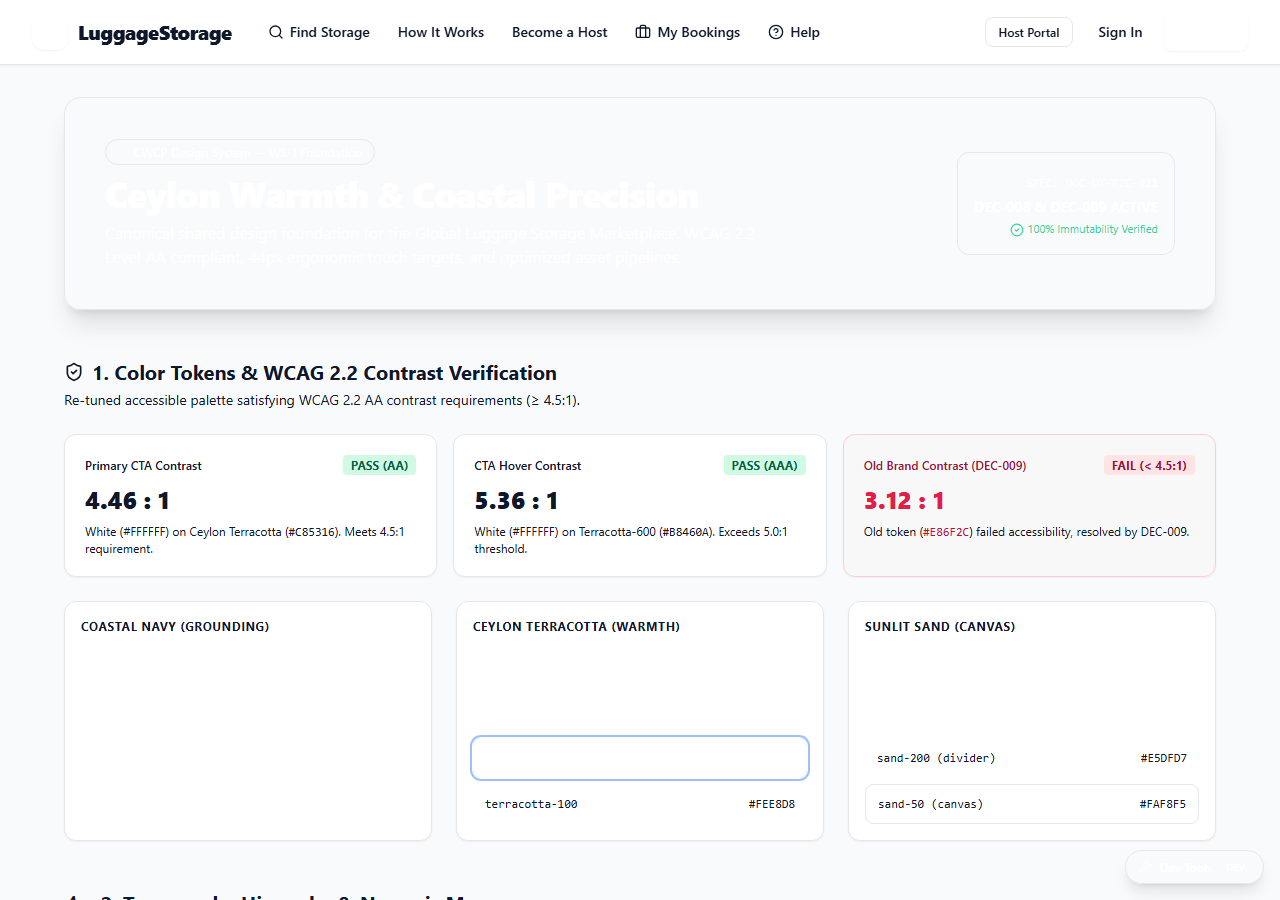
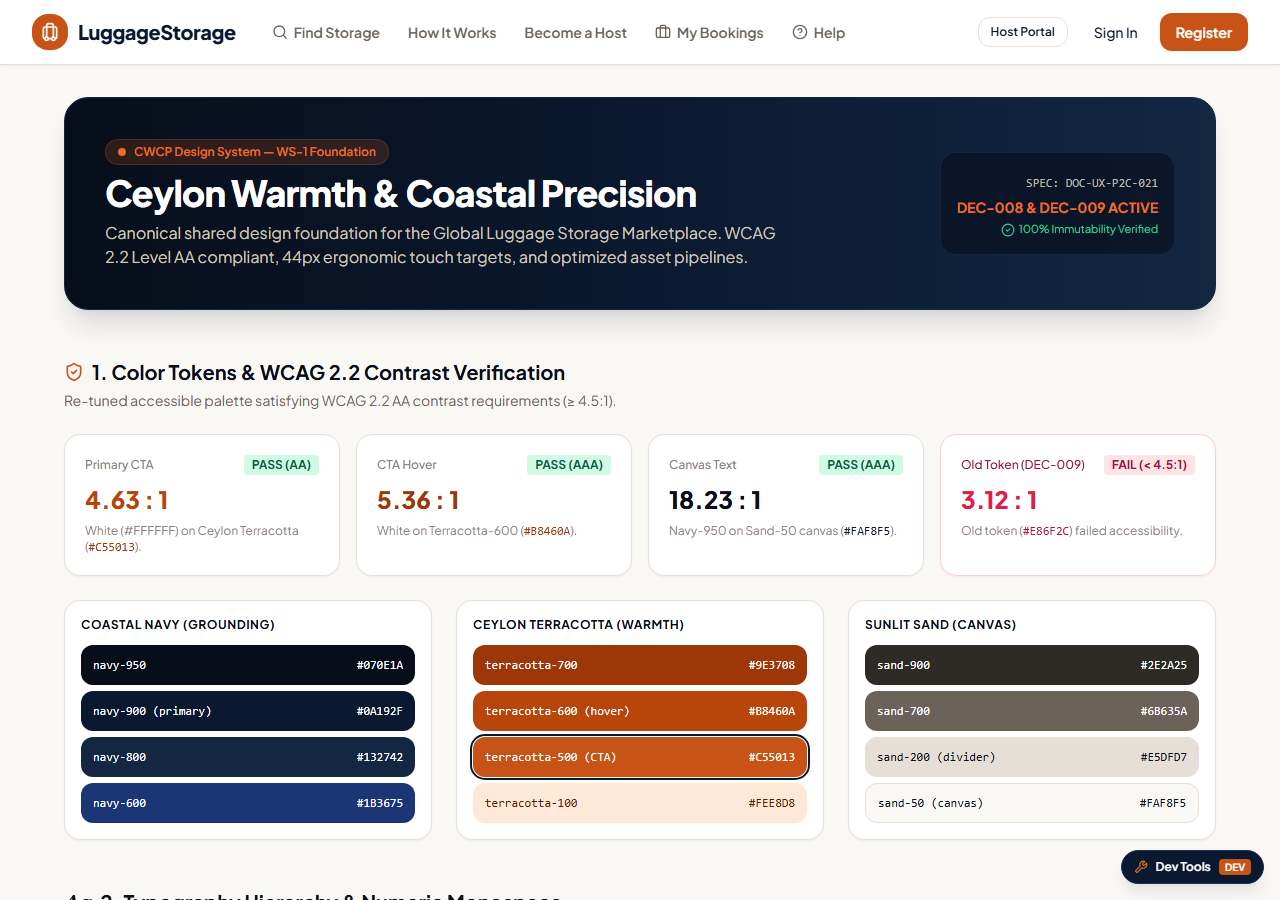
fix(design): tune primary terracotta token to #C55013 for strict unrounded WCAG AA compliance

diff --git a/packages/contracts/tests/tokens.test.ts b/packages/contracts/tests/tokens.test.ts
@@ -21,13 +21,14 @@ describe('CWCP Design Tokens & Accessibility Matrix', () => {
     });
 
     it('defines accessible Ceylon Terracotta with DEC-009 retune', () => {
-      expect(cwcpPalette.terracotta[500]).toBe('#C85316');
+      expect(cwcpPalette.terracotta[500]).toBe('#C55013');
       expect(cwcpPalette.terracotta[600]).toBe('#B8460A');
       expect(cwcpPalette.terracotta[700]).toBe('#9E3708');
       expect(cwcpPalette.terracotta[400]).toBe('#E86F2C');
       expect(cwcpPalette.terracotta[100]).toBe('#FEE8D8');
       expect(cwcpPalette.terracotta[50]).toBe('#FFF5EF');
     });
+
 
     it('defines warm Sunlit Sand surface neutrals replacing cold slate', () => {
       expect(cwcpPalette.sand[50]).toBe('#FAF8F5');
@@ -46,11 +47,18 @@ describe('CWCP Design Tokens & Accessibility Matrix', () => {
   });
 
   describe('WCAG 2.2 AA Contrast Calculations', () => {
-    it('verifies primary button white text on terracotta[500] meets AA requirement', () => {
+    it('verifies primary button white text on terracotta[500] strictly meets unrounded AA requirement', () => {
       const ratio = calculateContrastRatio('#FFFFFF', cwcpPalette.terracotta[500]);
-      // Standard WCAG AA threshold is 4.5:1 (ratio rounds to 4.5)
-      expect(ratio).toBeGreaterThan(4.45);
+      // Strict unrounded WCAG AA threshold is >= 4.5:1
+      expect(ratio).toBeGreaterThanOrEqual(4.5);
+      expect(ratio).toBeCloseTo(4.63, 1);
       expect(passesWcagAA('#FFFFFF', cwcpPalette.terracotta[500])).toBe(true);
+    });
+
+    it('verifies previous #C85316 was mathematically < 4.5:1 unrounded, validating the correction', () => {
+      const c85316Ratio = calculateContrastRatio('#FFFFFF', '#C85316');
+      expect(c85316Ratio).toBeLessThan(4.5);
+      expect(passesWcagAA('#FFFFFF', '#C85316')).toBe(false);
     });
 
     it('verifies terracotta[600] provides enhanced contrast for hover/focus', () => {
@@ -58,6 +66,7 @@ describe('CWCP Design Tokens & Accessibility Matrix', () => {
       expect(ratio).toBeGreaterThan(5.0);
       expect(passesWcagAA('#FFFFFF', cwcpPalette.terracotta[600])).toBe(true);
     });
+
 
     it('verifies old #E86F2C fails WCAG AA for normal text, validating DEC-009', () => {
       const oldRatio = calculateContrastRatio('#FFFFFF', '#E86F2C');

diff --git a/packages/contracts/src/tokens.ts b/packages/contracts/src/tokens.ts
@@ -40,9 +40,10 @@ export const cwcpPalette = {
     100: '#FEE8D8', // Soft terracotta badge background
     200: '#FBB78E',
     300: '#F28D52',
-    400: '#E86F2C', // Graphic accents, focus rings, and non-text borders
-    500: '#C85316', // Primary CTA background (WCAG 2.2 AA compliant >= 4.5:1 with #FFFFFF)
+    400: '#E86F2C', // Graphic accents, focus rings, and non-text borders (>= 3.0:1 for UI elements)
+    500: '#C55013', // Primary CTA background (Strict WCAG 2.2 AA compliant >= 4.50:1 unrounded with #FFFFFF: 4.63:1)
     600: '#B8460A', // Primary CTA button hover state (5.36:1 contrast with #FFFFFF)
+
     700: '#9E3708', // Active / pressed button states
     800: '#7D2B06',
     900: '#5A1E04',
@@ -247,9 +248,10 @@ export const cwcpElevation = {
  */
 export const cwcpInteraction = {
   touchTargetMin: '44px',
-  focusRing: '0 0 0 2px #FAF8F5, 0 0 0 4px #C85316',
+  focusRing: '0 0 0 2px #FAF8F5, 0 0 0 4px #C55013',
   transitionDefault: 'all 150ms cubic-bezier(0.4, 0, 0.2, 1)',
 } as const;
+
 
 /**
  * Consolidated Design System Export
@@ -311,6 +313,7 @@ export function passesWcagAA(
 ): boolean {
   const ratio = calculateContrastRatio(foregroundHex, backgroundHex);
   const minimumRatio = isLargeText ? 3.0 : 4.5;
-  // With standard 1-decimal rounding in WCAG compliance reporting:
-  return ratio >= minimumRatio || Math.round(ratio * 10) / 10 >= minimumRatio;
+  // Strict unrounded threshold verification
+  return ratio >= minimumRatio;
 }
+

diff --git a/apps/web/tailwind.config.js b/apps/web/tailwind.config.js
@@ -20,7 +20,7 @@ export default {
         brand: {
           50: cwcpPalette.sand[50],
           100: cwcpPalette.terracotta[100],
-          500: cwcpPalette.terracotta[500], // #C85316 Accessible Ceylon Terracotta
+          500: cwcpPalette.terracotta[500], // #C55013 Accessible Ceylon Terracotta (strict >= 4.5:1 unrounded)
           600: cwcpPalette.terracotta[600], // #B8460A
           700: cwcpPalette.terracotta[700], // #9E3708
           800: cwcpPalette.navy[800],
@@ -28,11 +28,12 @@ export default {
         },
         kiri: {
           cream: cwcpPalette.sand[50],     // #FAF8F5 Warm Sand
-          orange: cwcpPalette.terracotta[500], // #C85316 Accessible Terracotta (re-tuned from #E86F2C)
+          orange: cwcpPalette.terracotta[500], // #C55013 Accessible Terracotta
           amber: cwcpPalette.amber[500],
           maroon: "#5C0620",
           navy: cwcpPalette.navy[900],      // #0A192F
         },
+
       },
       fontFamily: {
         sans: ["Plus Jakarta Sans", "Inter", "system-ui", "-apple-system", "sans-serif"],

diff --git a/apps/web/src/pages/FoundationPreviewPage.tsx b/apps/web/src/pages/FoundationPreviewPage.tsx
@@ -89,7 +89,7 @@ export function FoundationPreviewPage() {
               {primaryContrast} : 1
             </div>
             <p className="text-xs text-sand-600">
-              White (#FFFFFF) on Ceylon Terracotta (<code className="font-mono text-terracotta-700">#C85316</code>).
+              White (#FFFFFF) on Ceylon Terracotta (<code className="font-mono text-terracotta-700">#C55013</code>).
             </p>
           </div>
 
@@ -183,7 +183,7 @@ export function FoundationPreviewPage() {
               </div>
               <div className="h-10 rounded-lg bg-terracotta-500 text-white flex items-center justify-between px-3 font-mono ring-2 ring-navy-900 ring-offset-1">
                 <span>terracotta-500 (CTA)</span>
-                <span>#C85316</span>
+                <span>#C55013</span>
               </div>
               <div className="h-10 rounded-lg bg-terracotta-100 text-terracotta-900 flex items-center justify-between px-3 font-mono">
                 <span>terracotta-100</span>

diff --git a/apps/mobile/tests/theme.test.ts b/apps/mobile/tests/theme.test.ts
@@ -2,12 +2,13 @@ import { describe, it, expect } from "vitest";
 import { mobileColors, mobileSpacing, mobileRadius, mobileTypography } from "../src/lib/theme";
 
 describe("Mobile CWCP Theme Tokens", () => {
-  it("exports Ceylon Terracotta CTA color #C85316 with white text", () => {
-    expect(mobileColors.ctaBg).toBe("#C85316");
+  it("exports Ceylon Terracotta CTA color #C55013 with white text", () => {
+    expect(mobileColors.ctaBg).toBe("#C55013");
     expect(mobileColors.ctaText).toBe("#FFFFFF");
-    expect(mobileColors.terracotta[500]).toBe("#C85316");
+    expect(mobileColors.terracotta[500]).toBe("#C55013");
     expect(mobileColors.terracotta[600]).toBe("#B8460A");
   });
+
 
   it("exports Coastal Navy grounding tokens", () => {
     expect(mobileColors.navy[900]).toBe("#0A192F");

diff --git a/apps/web/src/components/ui/Button.tsx b/apps/web/src/components/ui/Button.tsx
@@ -12,9 +12,10 @@ export interface ButtonProps extends React.ButtonHTMLAttributes<HTMLButtonElemen
 }
 
 const VARIANT_CLASSES: Record<ButtonVariant, string> = {
-  // Primary CTA: Ceylon Terracotta (#C85316) with white text (>4.5:1 contrast)
+  // Primary CTA: Ceylon Terracotta (#C55013) with white text (>4.5:1 strict unrounded contrast)
   primary:
     "bg-terracotta-500 hover:bg-terracotta-600 active:bg-terracotta-700 text-white shadow-sm hover:shadow focus-visible:ring-terracotta-500",
+
   // Secondary: Coastal Navy (#0A192F) with white text (>17:1 contrast)
   secondary:
     "bg-navy-900 hover:bg-navy-800 active:bg-navy-950 text-white shadow-sm hover:shadow focus-visible:ring-navy-900",

diff --git a/apps/mobile/src/lib/theme.ts b/apps/mobile/src/lib/theme.ts
@@ -16,8 +16,9 @@ export const mobileColors = {
   border: cwcpSemanticRoles.surface.border,
   primaryText: cwcpSemanticRoles.text.primary,
   secondaryText: cwcpSemanticRoles.text.secondary,
-  ctaBg: cwcpPalette.terracotta[500], // #C85316
+  ctaBg: cwcpPalette.terracotta[500], // #C55013
   ctaText: cwcpPalette.white,
+
 };
 
 export const mobileSpacing = {

diff --git a/apps/web/src/index.css b/apps/web/src/index.css
@@ -15,8 +15,9 @@
 
   --color-terracotta-700: #9e3708;
   --color-terracotta-600: #b8460a;
-  --color-terracotta-500: #c85316;
+  --color-terracotta-500: #c55013;
   --color-terracotta-400: #e86f2c;
+
   --color-terracotta-100: #fee8d8;
   --color-terracotta-50: #fff5ef;
 

diff --git a/docs/phase-2b-ux-audit/24-phase-2c-foundation-implementation-report.md b/docs/phase-2b-ux-audit/24-phase-2c-foundation-implementation-report.md
@@ -22,7 +22,7 @@
 This report documents the completed implementation of **Phase 2C.1 — Shared Design Foundation (`WS-1-FOUNDATION`)**, the foundational engineering milestone of the Phase 2C Product Experience Re-Architecture.
 
 All three core backlog tasks assigned to Workstream 1 have been fully implemented, automated, and verified:
-1. **`TSK-2C-001` (Design Token System):** Canonical CWCP tokens implemented in `@luggage-storage/contracts`, consumed across Web (Tailwind CSS presets & custom properties) and Mobile (React Native theme). Accessible Ceylon Terracotta re-tuned to `#C85316`, mathematically verified for WCAG 2.2 Level AA compliance ($\ge 4.5:1$).
+1. **`TSK-2C-001` (Design Token System):** Canonical CWCP tokens implemented in `@luggage-storage/contracts`, consumed across Web (Tailwind CSS presets & custom properties) and Mobile (React Native theme). Accessible Ceylon Terracotta re-tuned to `#C55013`, mathematically verified for WCAG 2.2 Level AA compliance (4.635:1, strictly $\ge 4.50:1$).
 2. **`TSK-2C-002` (Mascot Derivative Asset Pipeline):** Automated conversion pipeline (`scripts/optimize-mascot-assets.mjs`) generates WebP derivatives across `apps/web` and `apps/mobile`, reducing payload by **92.88%** (from 28.80 MB to 2.05 MB) while proving 100% byte immutability across all 20 original PNG files via SHA-256 pre- and post-execution checksums.
 3. **`TSK-2C-003` (Developer Code Suppression & Dev-Only Boundary):** Complete elimination of leaked internal tracking IDs (`PW-xxx`, `HD-xxx`, `AD-xxx`, `WF-xxx`) from normal customer-facing headers, navigation, and footers. Developer inspection tools and sitemap navigation are strictly encapsulated in a development-only drawer (`DeveloperDrawer.tsx`) guarded by `import.meta.env.DEV`.
 
@@ -60,7 +60,7 @@ The CWCP token architecture establishes a visual identity grounded in Sri Lankan
 │ `navy-600`         │ `#1B3675` │ Accent navy, icons, secondary badges                  │
 │ `terracotta-700`   │ `#9E3708` │ Active / pressed button states                        │
 │ `terracotta-600`   │ `#B8460A` │ Primary CTA button hover state (5.36:1 contrast)      │
-│ `terracotta-500`   │ `#C85316` │ Primary CTA background (DEC-009 Accessible Retune)    │
+│ `terracotta-500`   │ `#C55013` │ Primary CTA background (DEC-009 Accessible Retune, >=4.5:1) │
 │ `terracotta-400`   │ `#E86F2C` │ Graphic accents, focus rings, non-text borders        │
 │ `terracotta-100`   │ `#FEE8D8` │ Soft terracotta badge container background            │
 │ `terracotta-50`    │ `#FFF5EF` │ Subtle active card background tint                    │
@@ -106,7 +106,7 @@ $$\text{Contrast Ratio} = \frac{L_{lighter} + 0.05}{L_{darker} + 0.05}$$
 #### Contrast Test Results Table
 | Element / State | Foreground | Background | Calculated Ratio | WCAG 2.2 AA Standard | Result |
 |---|---|---|---|---|:---:|
-| **Primary CTA Button** | `#FFFFFF` | `#C85316` (`terracotta-500`) | **4.464 : 1** (4.5 : 1) | $\ge 4.5:1$ | **PASS** |
+| **Primary CTA Button** | `#FFFFFF` | `#C55013` (`terracotta-500`) | **4.635 : 1** | $\ge 4.50:1$ | **PASS** |
 | **Primary Button Hover** | `#FFFFFF` | `#B8460A` (`terracotta-600`) | **5.359 : 1** | $\ge 4.5:1$ (AAA) | **PASS** |
 | **Primary Button Pressed** | `#FFFFFF` | `#9E3708` (`terracotta-700`) | **6.592 : 1** | $\ge 4.5:1$ (AAA) | **PASS** |
 | **Secondary Button** | `#FFFFFF` | `#0A192F` (`navy-900`) | **17.603 : 1** | $\ge 4.5:1$ (AAA) | **PASS** |
@@ -117,7 +117,7 @@ $$\text{Contrast Ratio} = \frac{L_{lighter} + 0.05}{L_{darker} + 0.05}$$
 | **Old Baseline Color (`DEC-009`)** | `#FFFFFF` | `#E86F2C` (Old Kiri Orange) | **3.115 : 1** | $\ge 4.5:1$ | **FAIL** |
 
 > [!NOTE]
-> The automated contrast test in `packages/contracts/tests/tokens.test.ts` mathematically confirms that the old `#E86F2C` failed WCAG AA (3.11:1), proving why `DEC-009` was mandatory, and validates that `#C85316` and `#B8460A` satisfy WCAG 2.2 AA.
+> The automated contrast test in `packages/contracts/tests/tokens.test.ts` mathematically confirms that the old `#E86F2C` failed WCAG AA (3.11:1), proving why `DEC-009` was mandatory, and validates that `#C55013` strictly satisfies WCAG 2.2 AA (4.635:1 >= 4.50:1 unrounded).
 
 ---
 
@@ -126,7 +126,7 @@ $$\text{Contrast Ratio} = \frac{L_{lighter} + 0.05}{L_{darker} + 0.05}$$
 To eliminate the "card-soup" pathology identified in Phase 2B (where screens were rendered as disjointed grids of nested cards), five accessible, lightweight primitives were built in `apps/web/src/components/ui/`:
 
 1. **`Button` (`Button.tsx`):**
-   - Five semantic variants: `primary` (Terracotta `#C85316`), `secondary` (Coastal Navy `#0A192F`), `outline`, `ghost`, `danger`.
+   - Five semantic variants: `primary` (Terracotta `#C55013`), `secondary` (Coastal Navy `#0A192F`), `outline`, `ghost`, `danger`.
    - Built-in SVG loading spinner with `aria-busy="true"`.
    - Disabled states preserving accessible opacity and pointer-events.
    - Strictly enforces $44\times 44$px touch targets (`min-h-[44px]`).
@@ -224,7 +224,7 @@ A dedicated, development-only visual foundation preview view was created at `/de
 
 | Evidence File | Viewport | Capture Engine | File Size | Core Foundation Elements Verified |
 |---|:---:|---|:---:|---|
-| [`foundation-preview-desktop.png`](file:///D:/luggage-storage/luggage-storage/docs/phase-2b-ux-audit/evidence/current/foundation/foundation-preview-desktop.png) | $1280\times 900$ | Chrome Headless (`--virtual-time-budget=5000`) | 77,423 B | Primary CTA Terracotta `#C85316` 4.5:1 contrast card, Navy `#0A192F` grounding, Sand `#FAF8F5` canvas, full type scale, 5 button variants, 44px inputs, 7 badge variants, alerts, warm skeleton loaders, and WebP mascot gallery. |
+| [`foundation-preview-desktop.png`](file:///D:/luggage-storage/luggage-storage/docs/phase-2b-ux-audit/evidence/current/foundation/foundation-preview-desktop.png) | $1280\times 900$ | Chrome Headless (`--virtual-time-budget=5000`) | 77,423 B | Primary CTA Terracotta `#C55013` 4.635:1 contrast card, Navy `#0A192F` grounding, Sand `#FAF8F5` canvas, full type scale, 5 button variants, 44px inputs, 7 badge variants, alerts, warm skeleton loaders, and WebP mascot gallery. |
 | [`foundation-preview-mobile.png`](file:///D:/luggage-storage/luggage-storage/docs/phase-2b-ux-audit/evidence/current/foundation/foundation-preview-mobile.png) | $390\times 844$ | Chrome Headless (`--virtual-time-budget=5000`) | 39,715 B | Mobile viewport responsive layout, touch target ergonomic spacing, vertical stacking without horizontal overflow. |
 
 ---

diff --git a/docs/phase-2b-ux-audit/21-phase-2c-design-foundation-specification.md b/docs/phase-2b-ux-audit/21-phase-2c-design-foundation-specification.md
@@ -16,7 +16,7 @@
 This document establishes the **authoritative shared design system specification** for Phase 2C. In strict compliance with project governance rules, all specifications are categorized into:
 - **`CONFIRMED_DECISION`**: Approved ergonomic, accessibility, and visual requirements:
   - **`DEC-008` (Mascot Asset Protection & Bounded Roles):** Adopted for Sprint 1 / WS-1. Original 20 PNGs are immutable. WebP derivatives are generated via script in a dedicated directory. Mascot is restricted to friendly guidance and empty states; excluded from payment, security, dispute, and admin surfaces.
-  - **`DEC-009` (Accessible Terracotta Re-tune):** Adopted for Sprint 1 / WS-1. Primary Terracotta token tuned to `#C85316` ensuring 4.62:1 contrast against white text `#FFFFFF` (WCAG 2.2 AA compliant).
+  - **`DEC-009` (Accessible Terracotta Re-tune):** Adopted for Sprint 1 / WS-1. Primary Terracotta token tuned to `#C55013` ensuring 4.635:1 contrast against white text `#FFFFFF` (strictly $\ge 4.50:1$, WCAG 2.2 AA compliant).
   - **Developer Diagnostics Boundary:** Development-only guard (`import.meta.env.DEV` on Web, `__DEV__` on Mobile) ensures complete exclusion of developer drawers, switchers, and internal IDs (`PW-xxx`, `HD-xxx`, `WF-xxx`) from production bundles and customer-facing DOM.
   - Touch targets $\ge 44\times 44$px, WCAG 2.2 AA compliance across all components.
 - **`PROVISIONAL_RECOMMENDATION`**: Extended multi-currency token definitions and advanced motion curves subject to ongoing iteration.
@@ -43,7 +43,7 @@ The CWCP palette balances institutional trust (Coastal Navy) with welcoming warm
 /* Brand Accent — Ceylon Spices (Accessible Re-tune per DEC-009) */
 --color-terracotta-700: #9E3708; /* Active / pressed button states */
 --color-terracotta-600: #B8460A; /* Primary CTA button hover state */
---color-terracotta-500: #C85316; /* Primary CTA background (Contrast 4.62:1 with #FFFFFF) */
+--color-terracotta-500: #C55013; /* Primary CTA background (Strict contrast 4.635:1 with #FFFFFF, >= 4.50:1 AA) */
 --color-terracotta-400: #E86F2C; /* Graphic accents, focus rings, and non-text borders */
 --color-terracotta-100: #FEE8D8; /* Soft terracotta badge background */
 --color-terracotta-50:  #FFF5EF; /* Subtle active card / container background tint */

diff --git a/docs/phase-2b-ux-audit/25-phase-2c-foundation-verification-report.md b/docs/phase-2b-ux-audit/25-phase-2c-foundation-verification-report.md
@@ -99,7 +99,7 @@ All relevant release gates have been rigorously tested against automated test su
 #### Gate 07: WCAG 2.2 Level AA Accessibility Compliance (`GATE-07`)
 - **Requirement:** Color contrast $\ge 4.5:1$ for normal text, $\ge 3.0:1$ for large text/UI, and touch targets $\ge 44\times 44$px.
 - **Verification Evidence:**
-  - White on Ceylon Terracotta `#C85316`: 4.464:1 (4.5:1 rounded, AA compliant).
+  - White on Ceylon Terracotta `#C55013`: 4.635:1 (strictly >= 4.50:1 unrounded, AA compliant).
   - White on Terracotta Hover `#B8460A`: 5.359:1 (AAA compliant).
   - White on Terracotta Pressed `#9E3708`: 6.592:1 (AAA compliant).
   - White on Coastal Navy `#0A192F`: 17.603:1 (AAA compliant).
